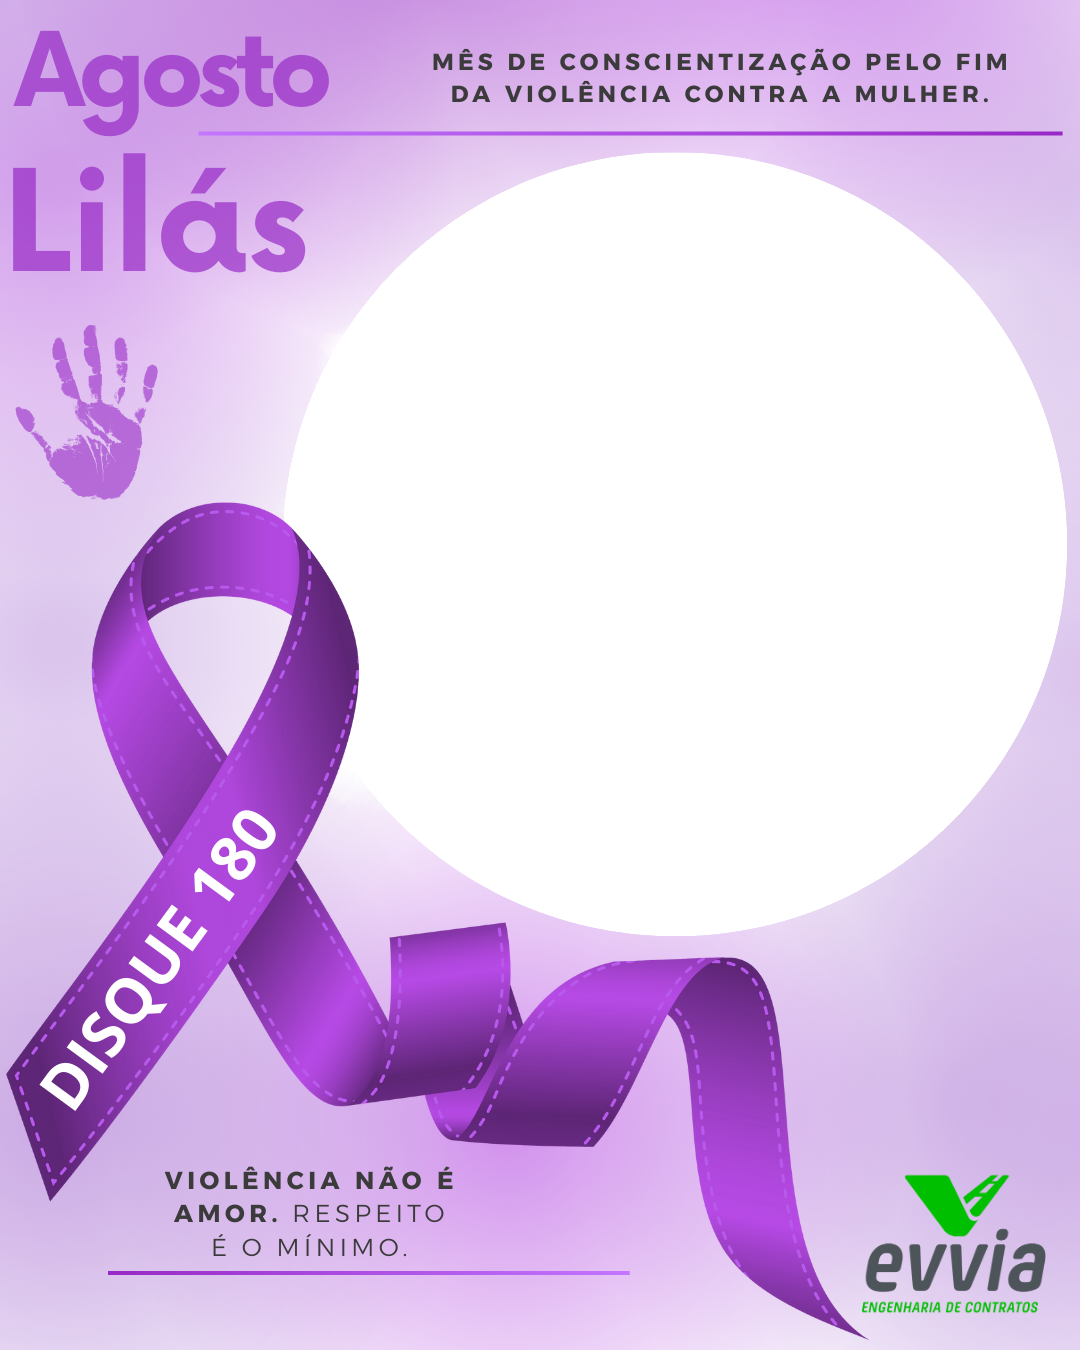
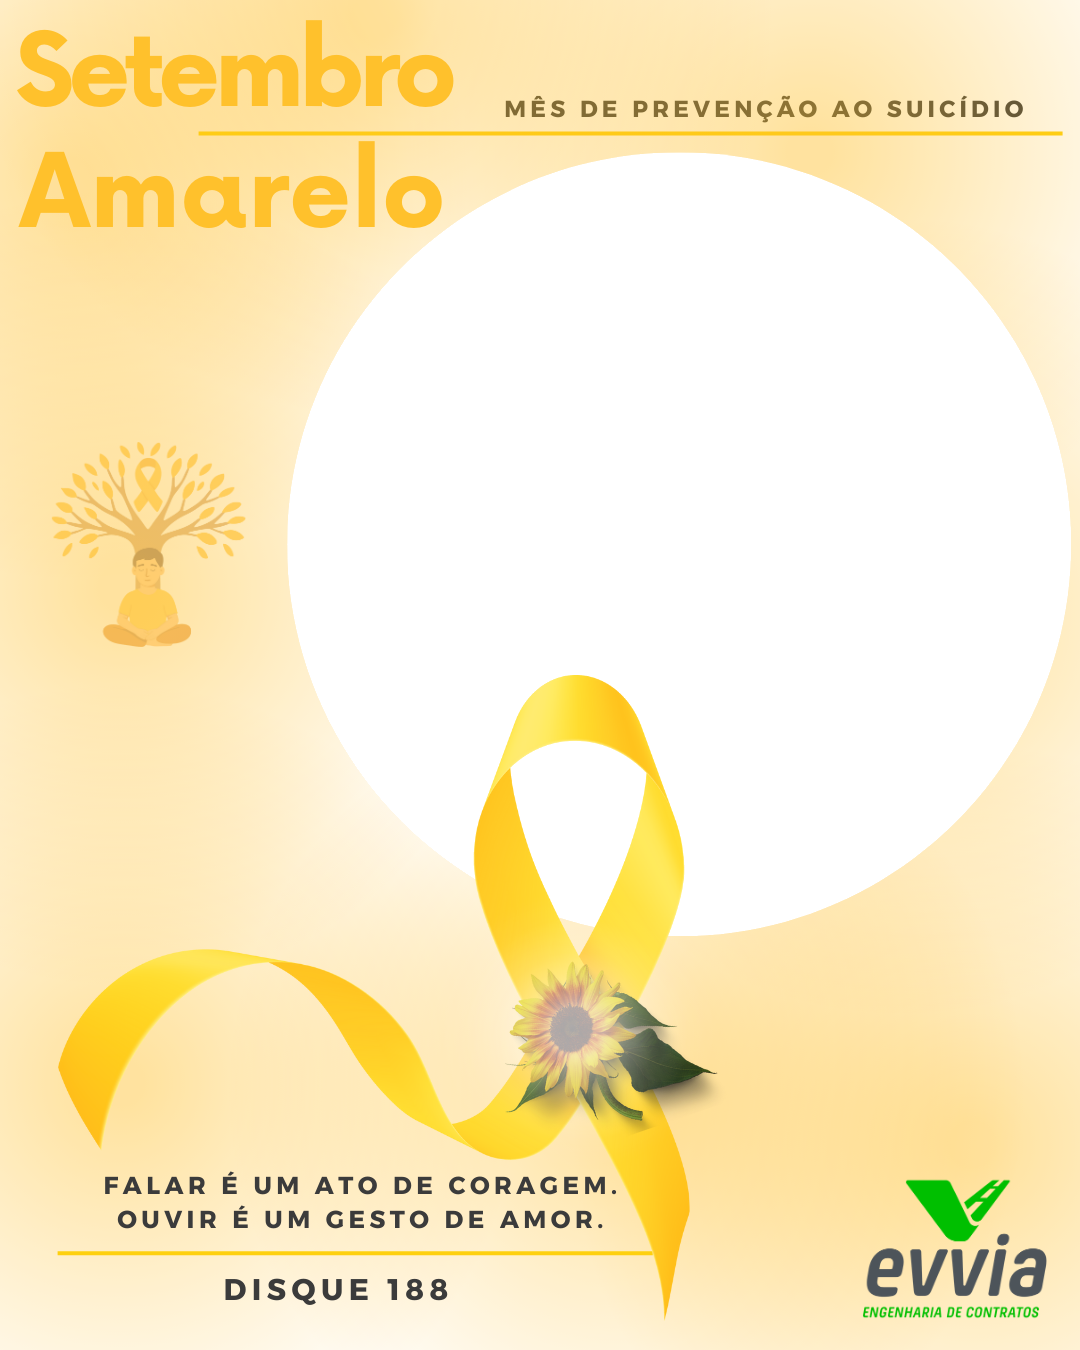
setembro amarelo

diff --git a/geradorfoto.py b/geradorfoto.py
@@ -7,7 +7,9 @@ import os
 h1, h2 = st.columns(2)
 h1.image('img/logoevvia.png')
 h2.title('Faça sua foto')
-h2.header('Agosto Lilás')
+h2.header('Setembro Amarelo')
+
+st.set_page_config('Evvia | Fotos', page_icon='img/logoevvia.png', layout='centered')
 
 if 'existe' not in st.session_state:
     st.session_state['existe'] = False
